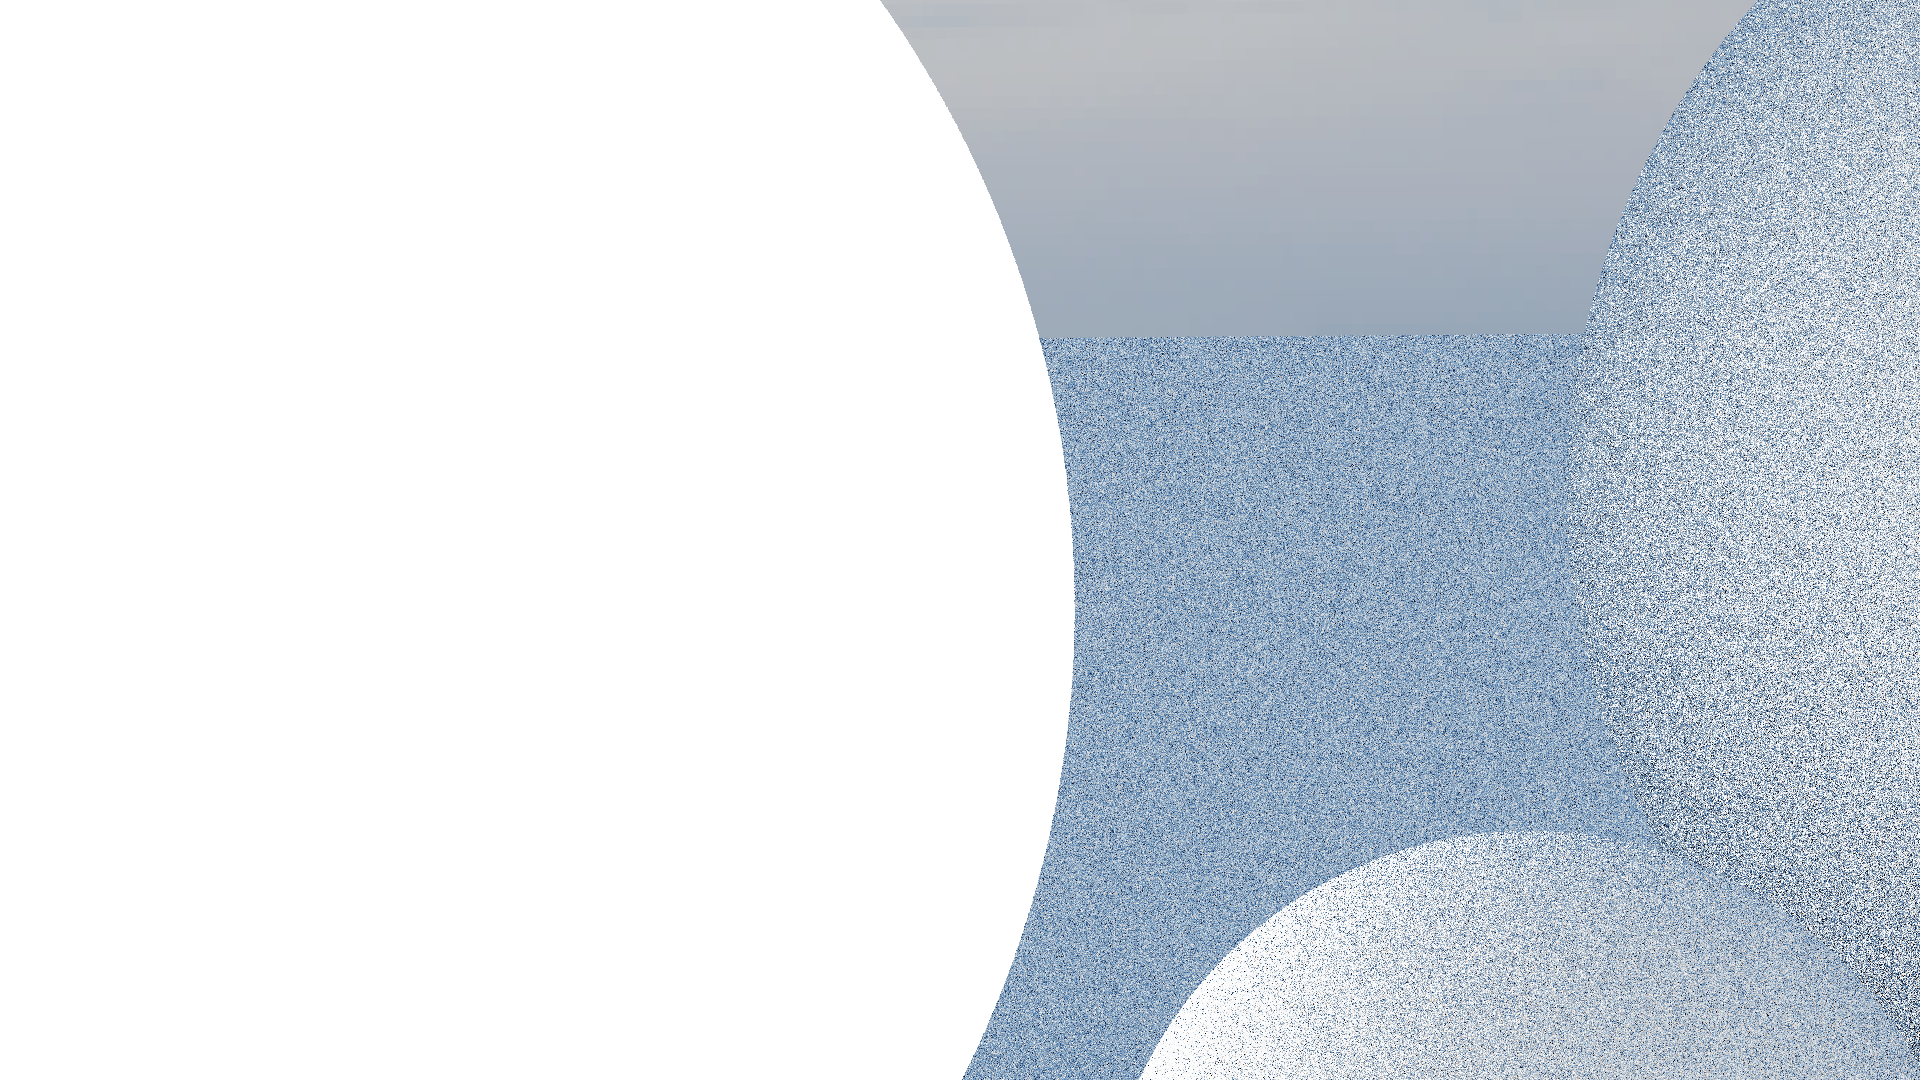
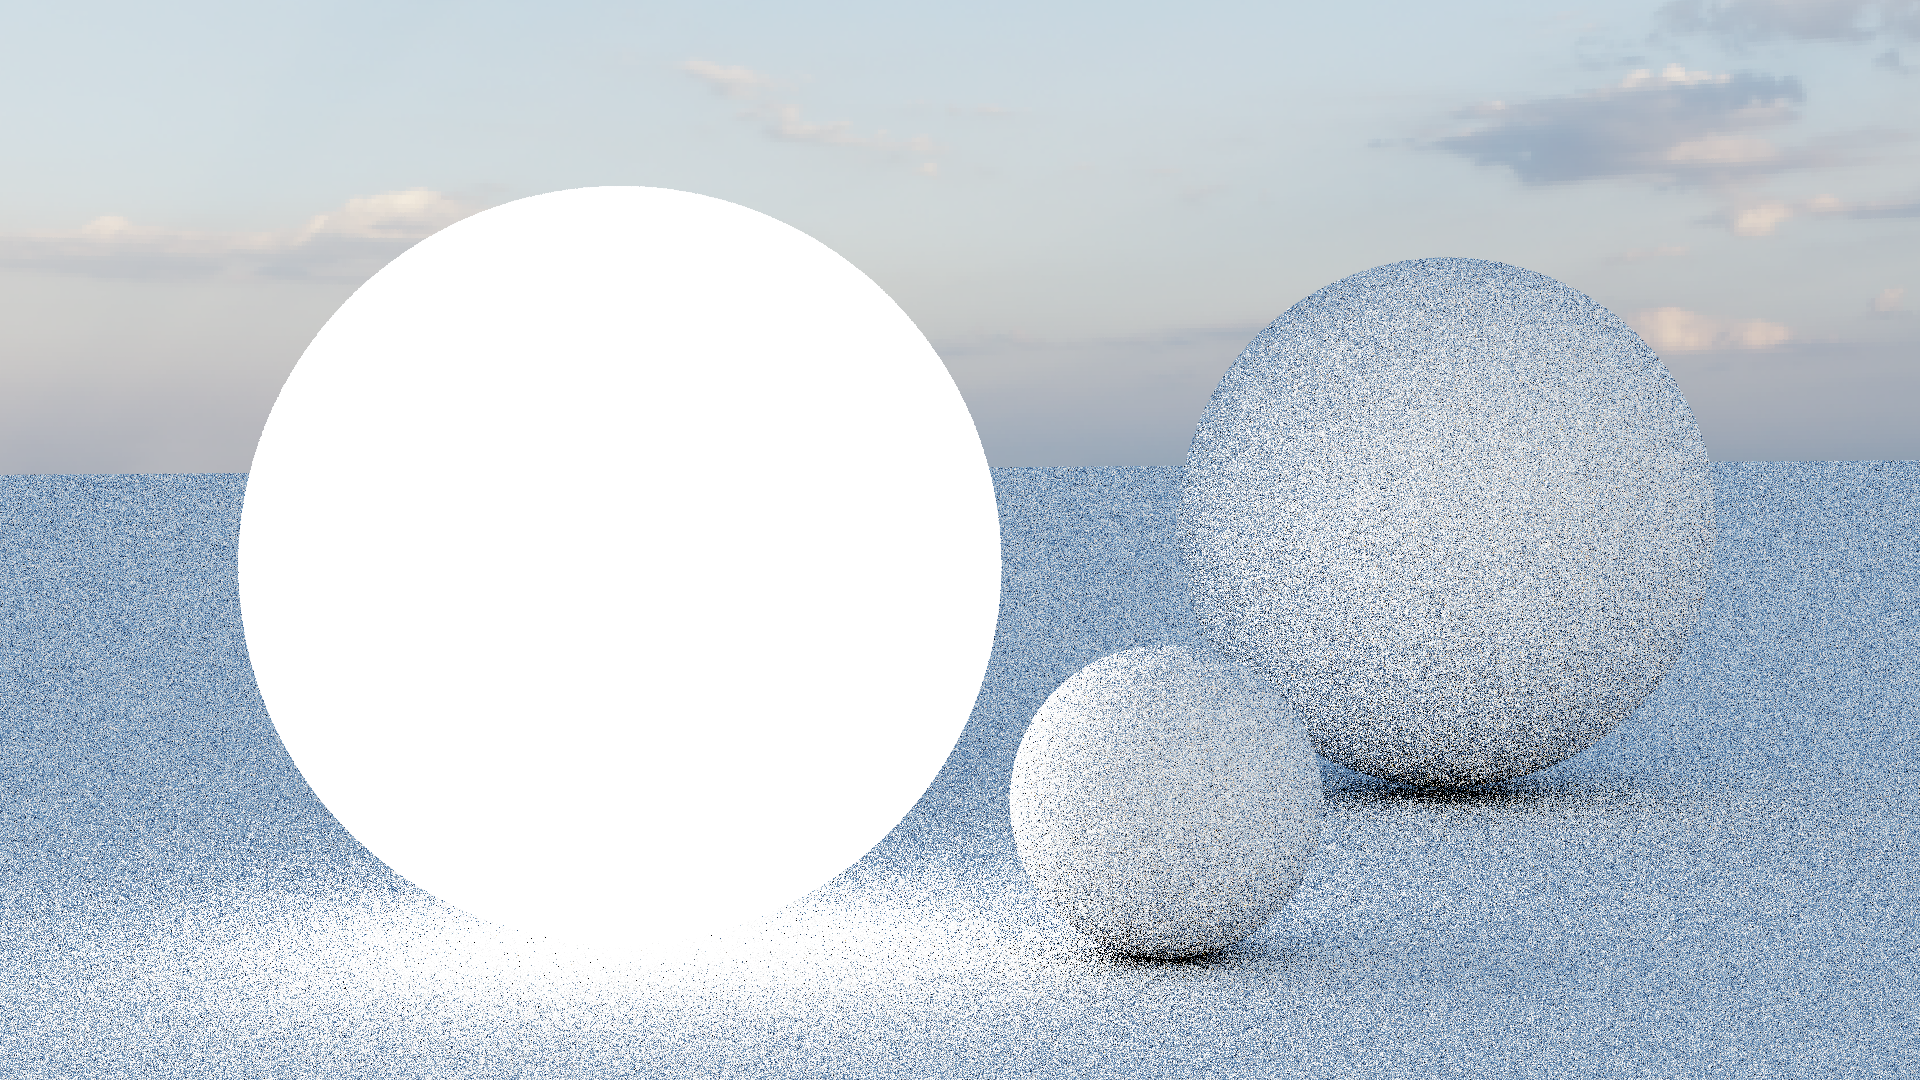
Complete DOne! HEHE

diff --git a/Networking/Message.py b/Networking/Message.py
@@ -108,7 +108,6 @@ def ReceiveRenderCommand(conn : socket.socket):
         # Parse Scene Text into Scene Object
         scene : Scene = Scene()
         scene_serializer : SceneSerializer = SceneSerializer(scene)
-
         scene_serializer.DeserializeSceneRuntimeFromString(scene_text)
 
 
@@ -117,6 +116,9 @@ def ReceiveRenderCommand(conn : socket.socket):
         # Get the film object from the scene's camera
         film : Film = scene.camera.film
         film.num_samples = num_samples
+
+        # Fix Camera FOV
+        scene.camera.set_FOV(90.0)
 
 
         # Init Renderer
